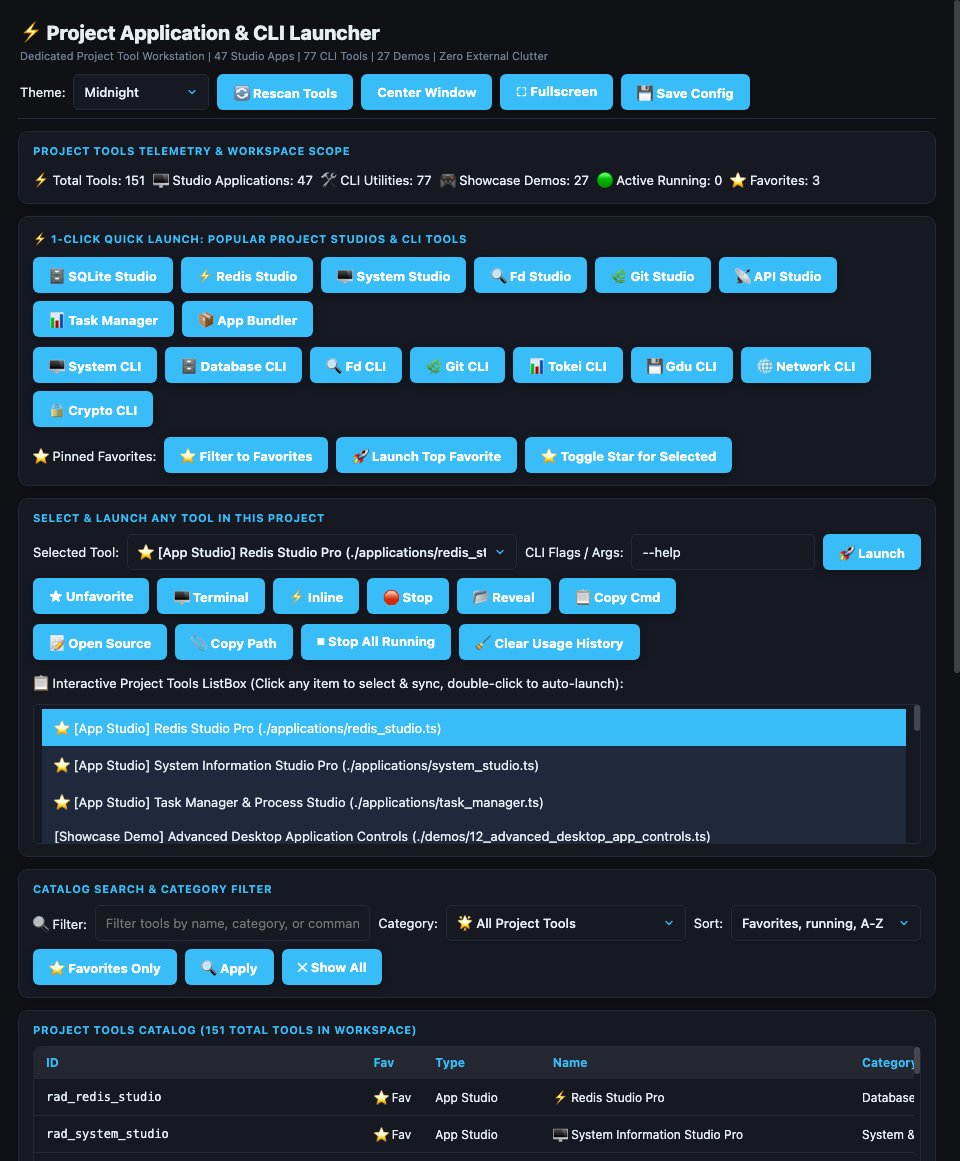
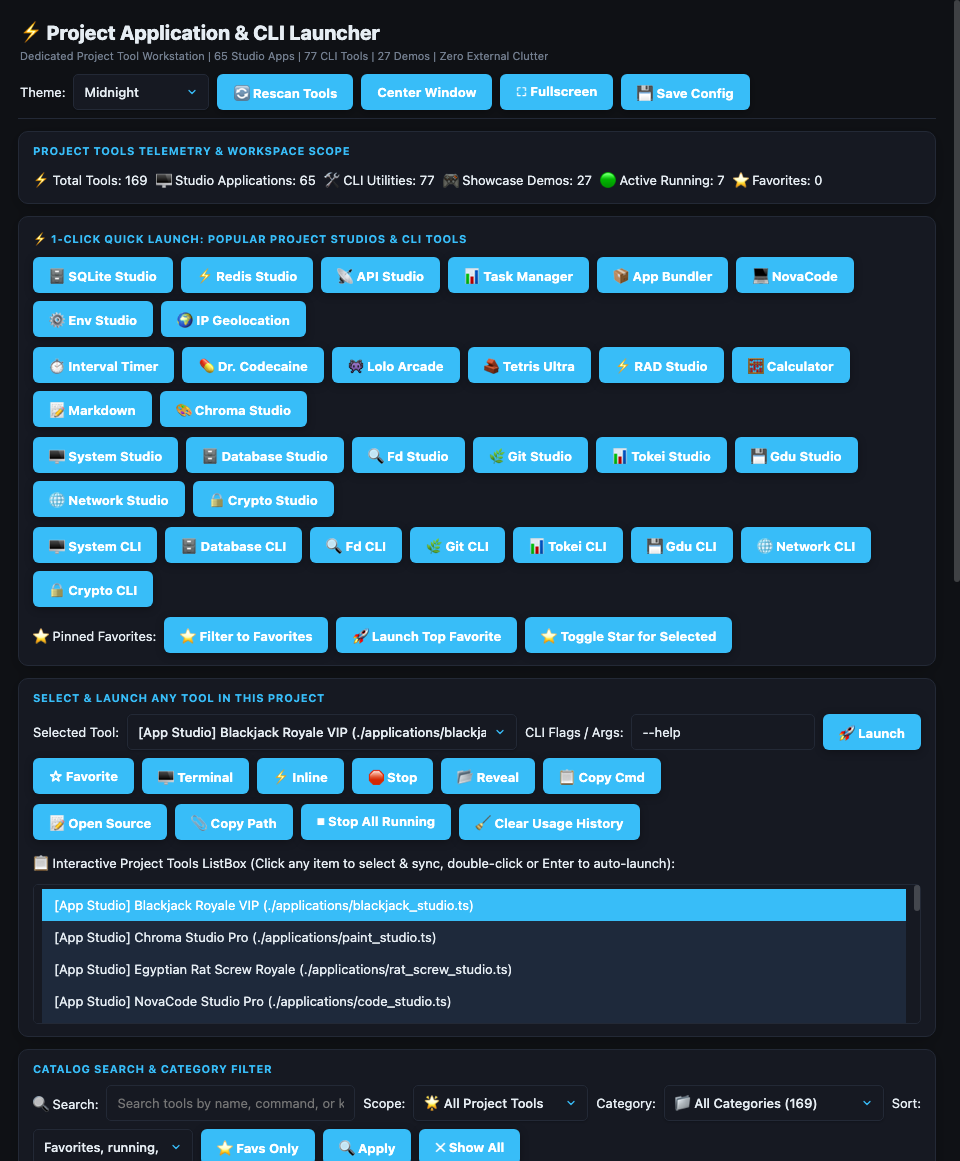
feat(launcher): add matching GUI Studio versions for all 1-click CLI tools with updated tests and documentation

diff --git a/applications/launcher_studio.ts b/applications/launcher_studio.ts
@@ -1792,25 +1792,38 @@ export function createLauncherStudio(options: { fullscreen?: boolean; theme?: st
   win.beginRow();
   win.addButton("btn_quick_sqlite", "🗄 SQLite Studio");
   win.addButton("btn_quick_redis", "⚡ Redis Studio");
-  win.addButton("btn_quick_system", "🖥 System Studio");
-  win.addButton("btn_quick_fd", "🔍 Fd Studio");
-  win.addButton("btn_quick_git", "🌿 Git Studio");
   win.addButton("btn_quick_api", "📡 API Studio");
   win.addButton("btn_quick_task", "📊 Task Manager");
   win.addButton("btn_quick_bundler", "📦 App Bundler");
+  win.addButton("btn_quick_code", "💻 NovaCode");
+  win.addButton("btn_quick_env", "⚙ Env Studio");
+  win.addButton("btn_quick_ipinfo", "🌍 IP Geolocation");
   win.endRow();
 
   win.beginRow();
-  win.addButton("btn_quick_ipinfo", "🌍 IP Geolocation");
-  win.addButton("btn_quick_network", "🌐 Network Studio");
-  win.addButton("btn_quick_code", "💻 NovaCode");
-  win.addButton("btn_quick_env", "⚙ Env Studio");
   win.addButton("btn_quick_interval", "⏱ Interval Timer");
   win.addButton("btn_quick_drcodecaine", "💊 Dr. Codecaine");
   win.addButton("btn_quick_lolo", "👾 Lolo Arcade");
   win.addButton("btn_quick_tetris", "🧱 Tetris Ultra");
+  win.addButton("btn_quick_rad", "⚡ RAD Studio");
+  win.addButton("btn_quick_calc", "🧮 Calculator");
+  win.addButton("btn_quick_markdown", "📝 Markdown");
+  win.addButton("btn_quick_paint", "🎨 Chroma Studio");
   win.endRow();
 
+  // GUI Studio Versions of CLI Tools
+  win.beginRow();
+  win.addButton("btn_quick_system", "🖥 System Studio");
+  win.addButton("btn_quick_db", "🗄 Database Studio");
+  win.addButton("btn_quick_fd", "🔍 Fd Studio");
+  win.addButton("btn_quick_git", "🌿 Git Studio");
+  win.addButton("btn_quick_tokei", "📊 Tokei Studio");
+  win.addButton("btn_quick_gdu", "💾 Gdu Studio");
+  win.addButton("btn_quick_network", "🌐 Network Studio");
+  win.addButton("btn_quick_crypto", "🔒 Crypto Studio");
+  win.endRow();
+
+  // Terminal CLI Tools Companion
   win.beginRow();
   win.addButton("btn_quick_sys_cli", "🖥 System CLI");
   win.addButton("btn_quick_db_cli", "🗄 Database CLI");
@@ -2851,22 +2864,34 @@ export function createLauncherStudio(options: { fullscreen?: boolean; theme?: st
 
   bindQuick("btn_quick_sqlite", "sqlite_studio");
   bindQuick("btn_quick_redis", "redis_studio");
-  bindQuick("btn_quick_system", "system_studio");
-  bindQuick("btn_quick_fd", "fd_studio");
-  bindQuick("btn_quick_git", "git_studio");
   bindQuick("btn_quick_api", "api_studio");
   bindQuick("btn_quick_task", "task_manager");
   bindQuick("btn_quick_bundler", "app_bundler_studio");
-
-  bindQuick("btn_quick_ipinfo", "ipinfo_studio");
-  bindQuick("btn_quick_network", "network_studio");
   bindQuick("btn_quick_code", "code_studio");
   bindQuick("btn_quick_env", "env_studio");
+  bindQuick("btn_quick_ipinfo", "ipinfo_studio");
+
   bindQuick("btn_quick_interval", "interval_timer_studio");
   bindQuick("btn_quick_drcodecaine", "dr_codecaine_studio");
   bindQuick("btn_quick_lolo", "lolo_studio");
   bindQuick("btn_quick_tetris", "tetris_studio");
+  bindQuick("btn_quick_rad", "rad_studio");
+  bindQuick("btn_quick_calc", "calculator_studio");
+  bindQuick("btn_quick_markdown", "markdown_studio");
+  bindQuick("btn_quick_paint", "paint_studio");
 
+  // GUI Studio Versions of CLI Tools
+  bindQuick("btn_quick_system", "system_studio");
+  bindQuick("btn_quick_db", "database_studio");
+  bindQuick("btn_quick_database", "database_studio");
+  bindQuick("btn_quick_fd", "fd_studio");
+  bindQuick("btn_quick_git", "git_studio");
+  bindQuick("btn_quick_tokei", "tokei_studio");
+  bindQuick("btn_quick_gdu", "gdu_studio");
+  bindQuick("btn_quick_network", "network_studio");
+  bindQuick("btn_quick_crypto", "crypto_studio");
+
+  // Terminal CLI Tools Companion
   bindQuick("btn_quick_sys_cli", "system_cli", "--telemetry", true);
   bindQuick("btn_quick_db_cli", "database_cli", "--help", true);
   bindQuick("btn_quick_fd_cli", "fd_cli", "--help", true);

diff --git a/tests/launcher.test.ts b/tests/launcher.test.ts
@@ -629,6 +629,24 @@ describe("Launcher Studio Pro - Application Auto-Detection", () => {
       "btn_quick_api",
       "btn_quick_task",
       "btn_quick_bundler",
+      "btn_quick_rad",
+      "btn_quick_calc",
+      "btn_quick_markdown",
+      "btn_quick_paint",
+      // GUI Studio versions of CLI tools
+      "btn_quick_db",
+      "btn_quick_database",
+      "btn_quick_tokei",
+      "btn_quick_gdu",
+      "btn_quick_crypto",
+      // CLI tools companion
+      "btn_quick_sys_cli",
+      "btn_quick_db_cli",
+      "btn_quick_fd_cli",
+      "btn_quick_git_cli",
+      "btn_quick_tokei_cli",
+      "btn_quick_gdu_cli",
+      "btn_quick_net_cli",
     ];
 
     for (const btnId of expectedButtons) {
@@ -657,6 +675,32 @@ describe("Launcher Studio Pro - Application Auto-Detection", () => {
     // Invoking enter handler updates selection
     enterHandler(win, "rad_sqlite_studio");
     expect(win.getValue("lst_apps")).toContain("SQLite Studio Pro");
+  });
+
+  it("ensures every CLI tool in 1-clicks has a corresponding GUI Studio version in 1-clicks", () => {
+    const win = createLauncherStudio({ fullscreen: false });
+    const handlers = (win as any).eventHandlersMap;
+    expect(handlers).toBeDefined();
+
+    const cliAndGuiPairs = [
+      { cli: "btn_quick_sys_cli", gui: "btn_quick_system", label: "System Information" },
+      { cli: "btn_quick_db_cli", gui: "btn_quick_db", label: "Database" },
+      { cli: "btn_quick_fd_cli", gui: "btn_quick_fd", label: "Fd File Discovery" },
+      { cli: "btn_quick_git_cli", gui: "btn_quick_git", label: "Git Version Control" },
+      { cli: "btn_quick_tokei_cli", gui: "btn_quick_tokei", label: "Tokei Code Stats" },
+      { cli: "btn_quick_gdu_cli", gui: "btn_quick_gdu", label: "GDU Disk Usage" },
+      { cli: "btn_quick_net_cli", gui: "btn_quick_network", label: "Network Diagnostics" },
+      { cli: "btn_quick_crypto_cli", gui: "btn_quick_crypto", label: "Cryptography & Hashing" },
+    ];
+
+    for (const pair of cliAndGuiPairs) {
+      const cliHandler = handlers.get(`${pair.cli}:onclick`);
+      const guiHandler = handlers.get(`${pair.gui}:onclick`);
+      expect(cliHandler).toBeDefined();
+      expect(typeof cliHandler).toBe("function");
+      expect(guiHandler).toBeDefined();
+      expect(typeof guiHandler).toBe("function");
+    }
   });
 });
 

diff --git a/docs/userguides/00_launcher_studio.md b/docs/userguides/00_launcher_studio.md
@@ -89,10 +89,11 @@ In complex workstation UIs, applying filters often leads to desynchronized selec
 
 ### 4. ⚡ 1-Click Quick Launch Toolbars
 Located right below telemetry cards, these high-density buttons trigger the most common engineering tools with optimal preset arguments:
-- **Popular Core Studios (Row 1)**: SQLite Studio, Redis Studio, System Studio, Fd Studio, Git Studio, API Studio, Task Manager, App Bundler.
-- **Featured Popular Studios (Row 2)**: IP Geolocation Studio (`ipinfo_studio`), Network Diagnostics Studio (`network_studio`), NovaCode Studio Pro (`code_studio`), Environment Variable Studio (`env_studio`), Interval Timer & Workout Suite (`interval_timer_studio`), Dr. Codecaine Arcade (`dr_codecaine_studio`), Adventures of Lolo Remaster (`lolo_studio`), Tetris Ultra Deluxe (`tetris_studio`).
-- **Popular CLI Utilities (Row 3)**: System CLI (`--telemetry`), Database CLI (`--help`), Fd CLI, Git CLI, Tokei CLI, Gdu CLI, Network CLI, Crypto CLI.
-- **Quick Favorites Strip (Row 4)**: `⭐ Filter to Favorites`, `🚀 Launch Top Favorite`, `⭐ Toggle Star for Selected`.
+- **Core Studios & Workstations (Row 1)**: SQLite Studio (`sqlite_studio`), Redis Studio (`redis_studio`), API Studio (`api_studio`), Task Manager (`task_manager`), App Bundler (`app_bundler_studio`), NovaCode (`code_studio`), Env Studio (`env_studio`), IP Geolocation (`ipinfo_studio`).
+- **Featured Utilities & Arcade (Row 2)**: Interval Timer (`interval_timer_studio`), Dr. Codecaine Arcade (`dr_codecaine_studio`), Lolo Arcade (`lolo_studio`), Tetris Ultra (`tetris_studio`), RAD Studio (`rad_studio`), Universal Calculator (`calculator_studio`), Markdown Live Editor (`markdown_studio`), Chroma Studio (`paint_studio`).
+- **GUI Studio Versions of CLI Tools (Row 3)**: System Information Studio (`system_studio`), Unified Database Studio (`database_studio`), Fd Studio (`fd_studio`), Git Studio (`git_studio`), Tokei Code Statistics Studio (`tokei_studio`), GDU Disk Usage Studio (`gdu_studio`), Network Diagnostics Studio (`network_studio`), Cryptography & Hashing Studio (`crypto_studio`).
+- **Terminal CLI Tools Companion (Row 4)**: System CLI (`--telemetry`), Database CLI (`--help`), Fd CLI, Git CLI, Tokei CLI, Gdu CLI, Network CLI, Crypto CLI (each opens in interactive terminal with 1-click).
+- **Quick Favorites Strip (Row 5)**: `⭐ Filter to Favorites`, `🚀 Launch Top Favorite`, `⭐ Toggle Star for Selected`.
 
 ### 5. 🖥 Multi-Mode Process Dispatcher
 Every tool can be executed in the mode that best fits your workflow:

diff --git a/README.md b/README.md
@@ -40,7 +40,7 @@ bun run cli:launcher --search sqlite
 ![Launcher Studio Pro Desktop Screenshot](screenshots/apps/launcher_studio_desktop.png)
 
 > **✨ New in Launcher Studio Pro:**
-> - **⚡ 1-Click Quick Launch Toolbars**: Instant 1-click execution buttons for **16 Popular Studios** (SQLite Studio, Redis Studio, System Studio, Fd Studio, Git Studio, API Studio, Task Manager, App Bundler, IP Geolocation, Network Studio, NovaCode, Env Studio, Interval Timer, Dr. Codecaine, Lolo Arcade, Tetris Ultra) and **8 CLI Tools** (System, Database, Fd, Git, Tokei, Gdu, Network, Crypto).
+> - **⚡ 1-Click Quick Launch Toolbars**: Instant 1-click execution buttons for **Core & Featured Studios** (SQLite, Redis, API, Task Manager, App Bundler, NovaCode, Env Studio, IP Geolocation, Interval Timer, Dr. Codecaine, Lolo, Tetris), matching **GUI Studio Versions of CLI Tools** (System Studio, Database Studio, Fd Studio, Git Studio, Tokei Studio, Gdu Studio, Network Studio, Crypto Studio), and **Terminal CLI Companions** (System CLI, Database CLI, Fd CLI, Git CLI, Tokei CLI, Gdu CLI, Network CLI, Crypto CLI).
 > - **⌨ Return / Enter Key Launch**: Pressing <kbd>Enter</kbd> or <kbd>Return</kbd> while navigating or selecting any tool in the interactive ListBox (`lst_apps`) instantly auto-launches the application.
 > - **📁 1-Click Category Filter Strip**: Filter tools with 1-click buttons: All Tools, Database, DevTools, System, Files, Network, Productivity, Games, Security, Design, Demos, CLI with live count badges.
 > - **⭐ Pinned Favorites & 1-Click Launch**: Star any tool with the `⭐ Favorite` (`btn_fav`) toggle button. Telemetry card tracks live `⭐ Favorites: N`. Launch your highest priority tool with a single click via `🚀 Launch Top Favorite` (`btn_quick_launch_fav1`).
